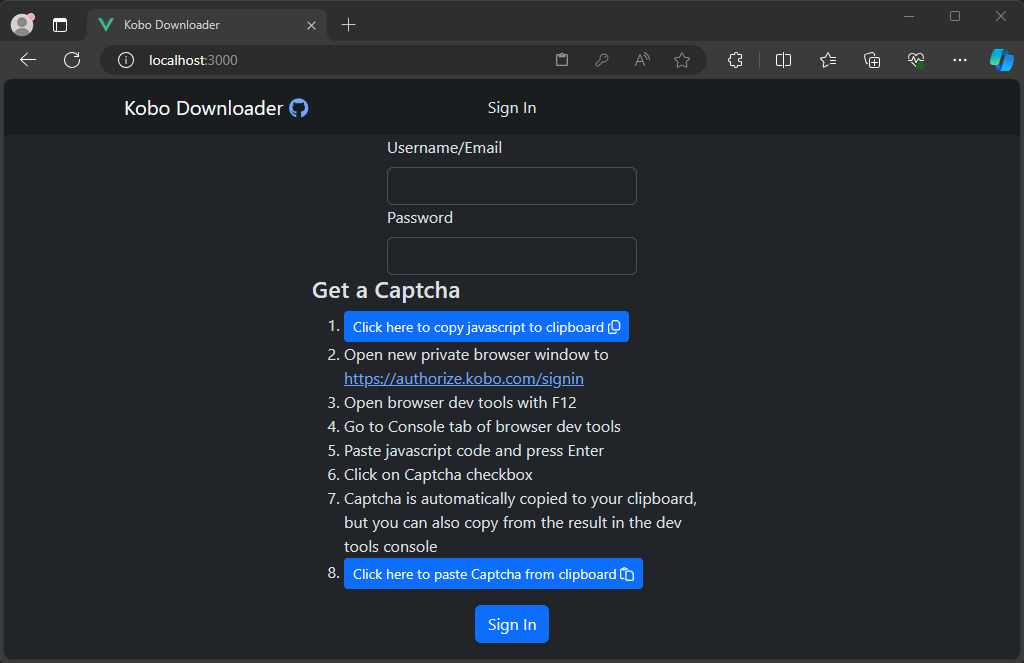
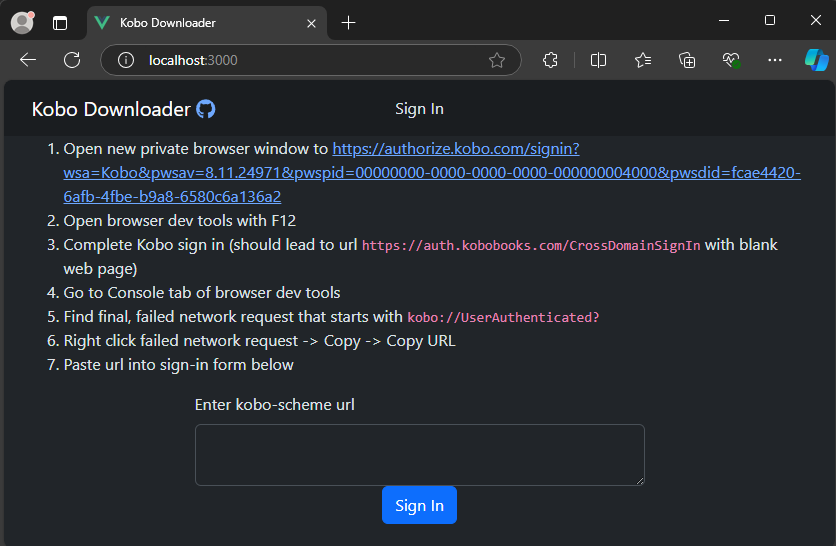
update readme sign-in

diff --git a/src/components/kobo-scheme-form.vue b/src/components/kobo-scheme-form.vue
@@ -22,22 +22,23 @@ function submit() {
 }
 </script>
 <template>
-<form class="d-flex flex-column align-items-center" @submit.prevent="submit">
-	<ol>
-		<li>Open new private browser window to <a :href="signInUrl">{{ signInUrl }}</a></li>
-		<li>Open browser dev tools with F12</li>
-		<li>Complete Kobo sign in (should lead to url <code>https://auth.kobobooks.com/CrossDomainSignIn</code> with blank web page)</li>
-		<li>Go to Console tab of browser dev tools</li>
-		<li>Find final, failed network request that starts with <code>kobo://UserAuthenticated?</code></li>
-		<li>Right click failed network request -> Copy -> Copy URL</li>
-		<li>Paste url into sign-in form below</li>
-	</ol>
-	<div style="width: 450px">
-		<label class="form-label">Enter kobo-scheme url</label>
-		<textarea class="form-control" name="koboSchemeUrl" v-model="koboSchemeUrl" required pattern="kobo://UserAuthenticated\?.*"></textarea>
-	</div>
-	<div>
-		<button type="submit" class="btn btn-primary">Sign In</button>
-	</div>
+	<form class="d-flex flex-column align-items-center" @submit.prevent="submit">
+		<ol>
+			<li>Open new private browser window to <a :href="signInUrl">{{ signInUrl }}</a></li>
+			<li>Open browser dev tools with F12</li>
+			<li>Complete Kobo sign in (should lead to url <code>https://auth.kobobooks.com/CrossDomainSignIn</code> with blank web page)</li>
+			<li>Go to Console tab of browser dev tools</li>
+			<li>Find final, failed network request that starts with <code>kobo://UserAuthenticated?</code></li>
+			<li>Right click failed network request -> Copy -> Copy URL</li>
+			<li>Paste url into sign-in form below</li>
+		</ol>
+		<div style="width: 450px">
+			<label class="form-label">Enter kobo-scheme url</label>
+			<textarea class="form-control" name="koboSchemeUrl" v-model="koboSchemeUrl" required pattern="kobo://UserAuthenticated\?.*"></textarea>
+		</div>
+		<div>
+			<button type="submit" class="btn btn-primary">Sign In</button>
+		</div>
 	</form>
+	<div>To log out of kobo.com, go to <a href="https://www.kobo.com" target="_blank">www.kobo.com</a> and clear cookies.</div>
 </template>

diff --git a/README.md b/README.md
@@ -38,13 +38,12 @@ Instructions for just using the executable to run the application and download a
 </details>
 
 3. Open web browser to [http://localhost:3000](http://localhost:3000)
-1. Sign in with kobo.com username and password, and following instructions to get captcha
+1. Follow instructions to get Kobo device authentication
 <details>
 <summary>Sign In Page</summary>
 
 ![sign in page](docs/sign-in.png)
-![captcha](docs/captcha.png)
-![clipboard access](docs/clipboard-access.png)
+![kobo userauthenticated url](docs/user-authenticated-request.png)
 </details>
 
 5. Download audiobook (audio files in .zip) or books (.epub)
